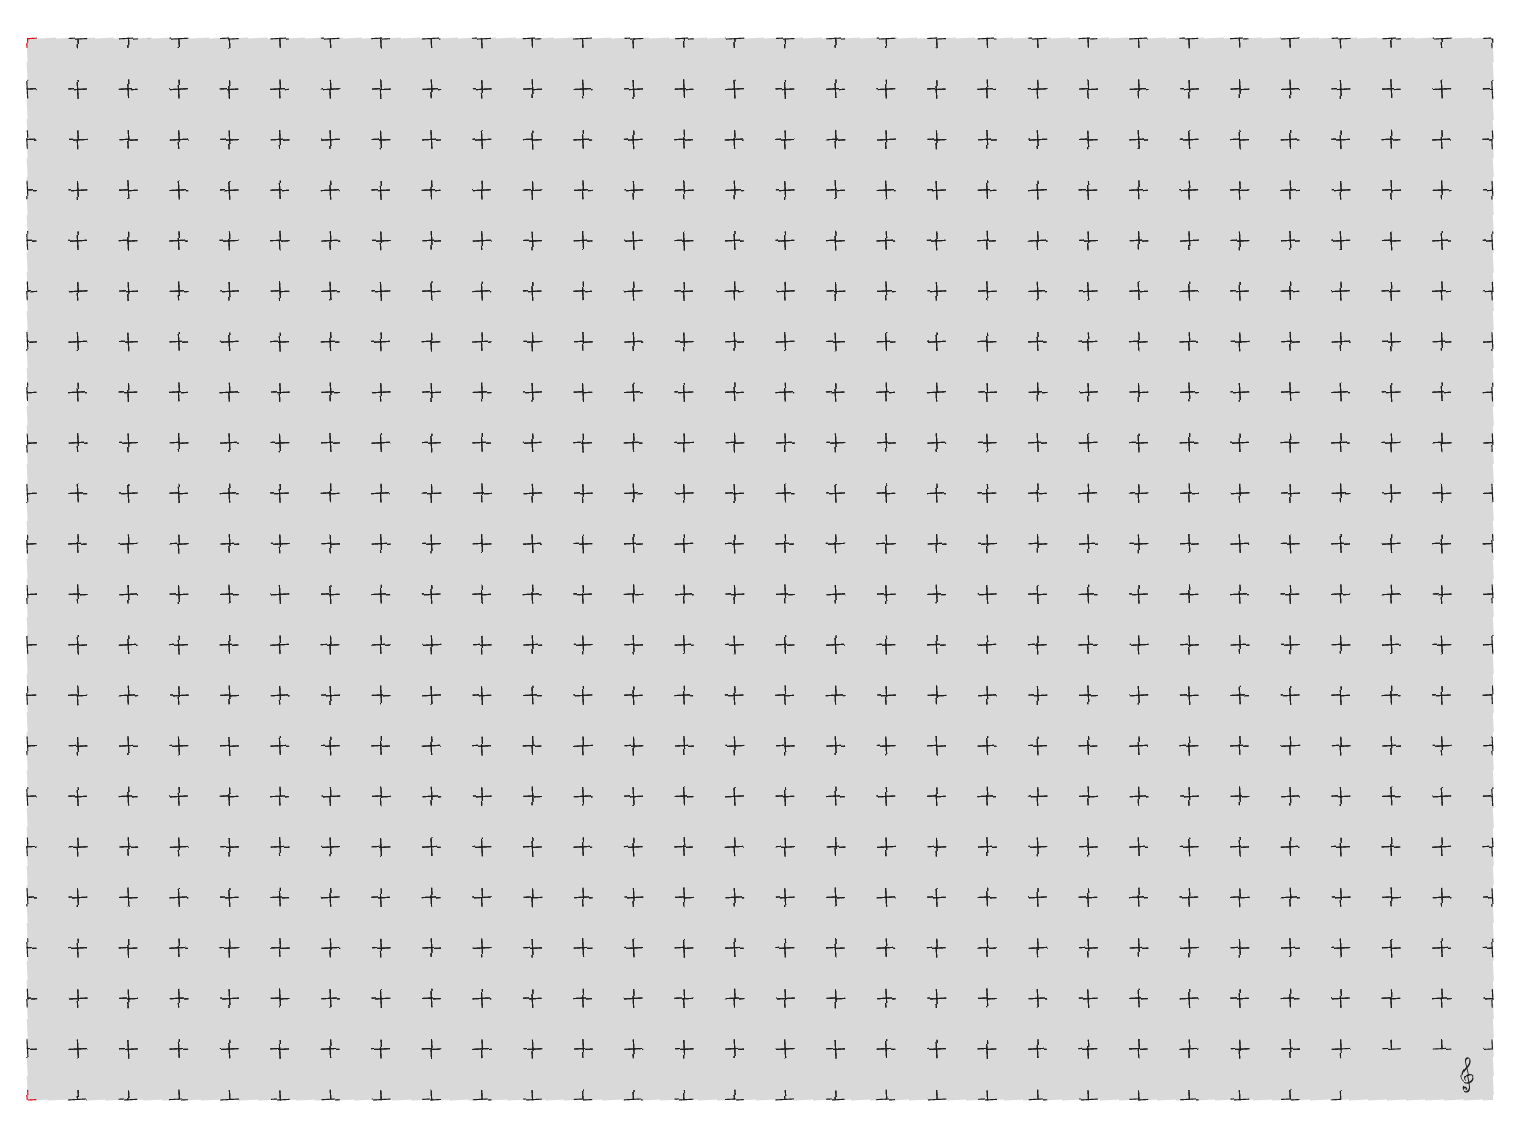
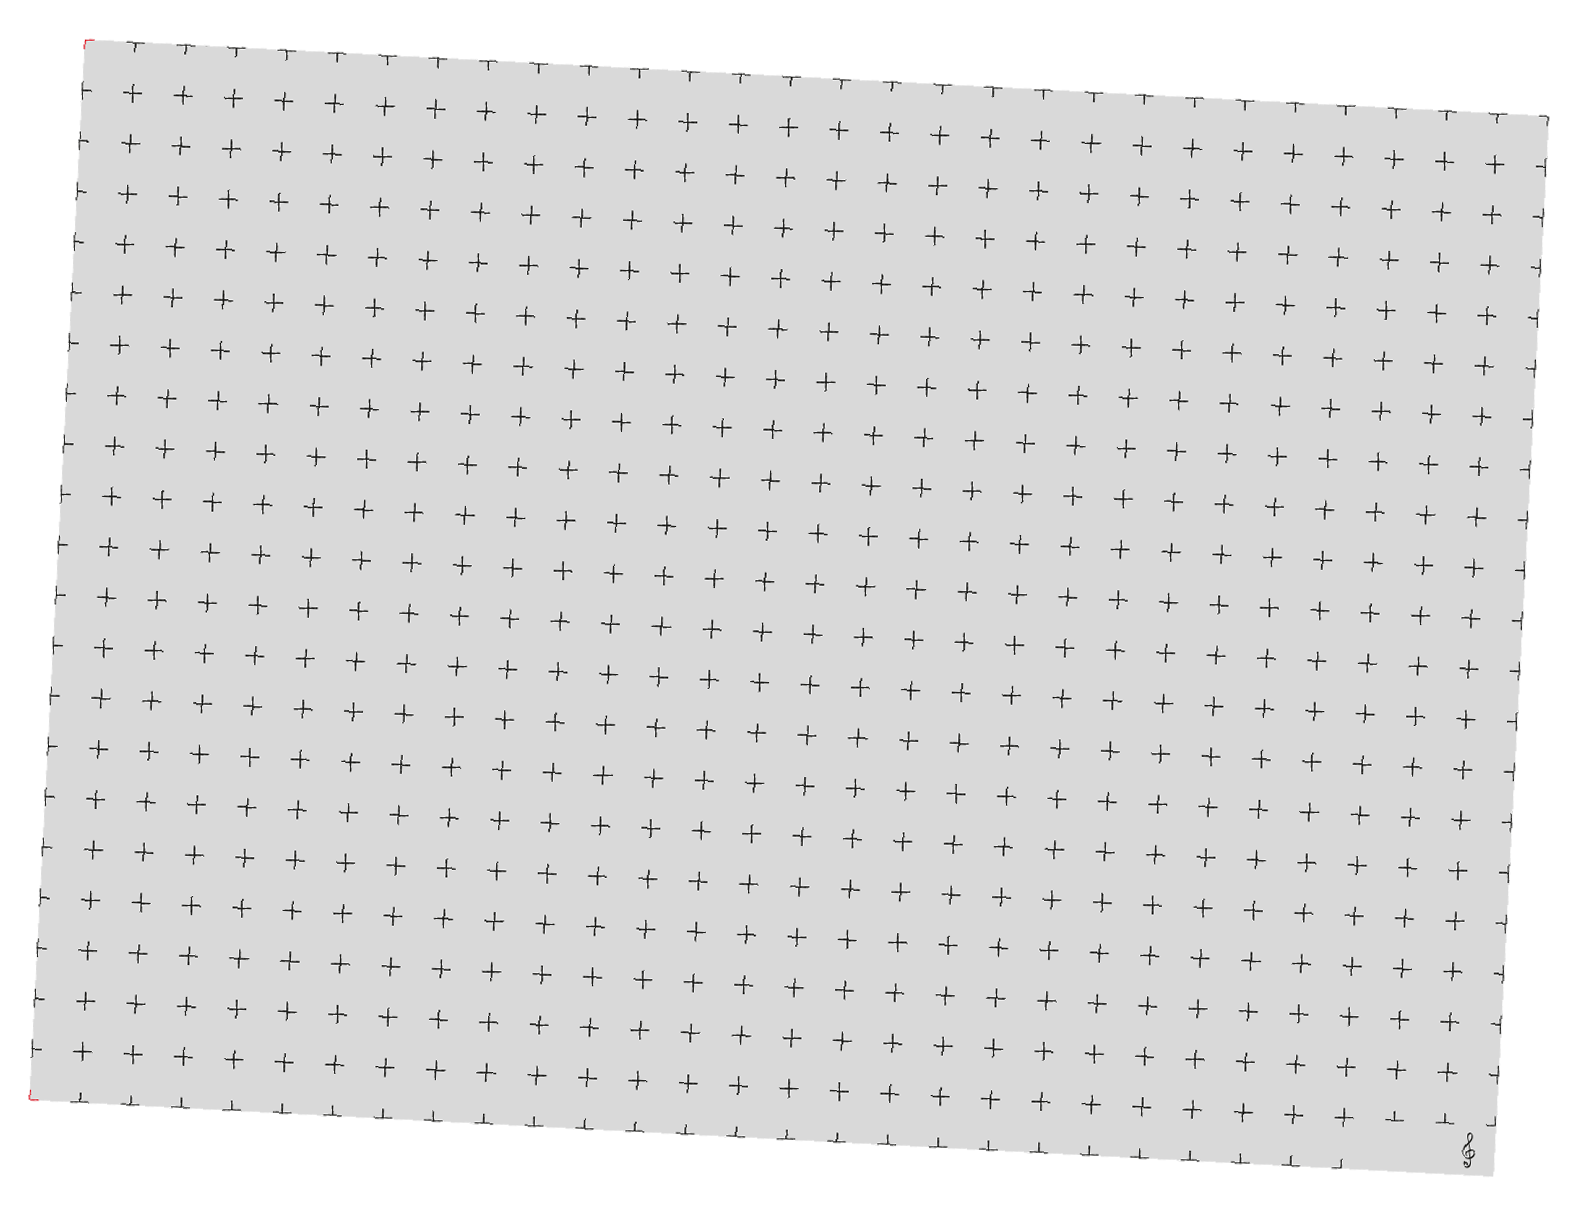
Ajout de la fonction de crop par couleur

diff --git a/cropHandles.py b/cropHandles.py
@@ -1,15 +1,22 @@
 import PIL
 import sys
 import os
-
-
+import colorHandles
 
 def crop_transparency(img):
+    """
+    Description
+    -----------
+    Crops the image's transparent borders.
+
+    Parameters
+    ----------
+    img : Image
+        The image you want to crop the transparency from.
+
+    """
+
     x, y = img.size
-
-    img.show()
-    print(img.getpixel((25,25)))
-
     left = 0
     top = 0
     right = 0
@@ -22,8 +29,8 @@ def crop_transparency(img):
                 left = i
                 break
         else:
-            continue
-        break
+            continue        # only executed if the inner loop did NOT break
+        break               # only executed if the inner loop DID break
 
     #TOP
     for i in range(0, y):
@@ -32,8 +39,8 @@ def crop_transparency(img):
                 top = i
                 break
         else:
-            continue  # only executed if the inner loop did NOT break
-        break  # only executed if the inner loop DID break
+            continue  
+        break  
 
     #RIGHT
     for i in reversed(range(0, x)):
@@ -52,8 +59,8 @@ def crop_transparency(img):
                 bottom = i
                 break
         else:
-            continue  # only executed if the inner loop did NOT break
-        break  # only executed if the inner loop DID break
+            continue  
+        break 
 
 
     print(top, left, bottom, right)
@@ -62,6 +69,77 @@ def crop_transparency(img):
     return cropped_img
 
 
+def crop_by_color(img, color2crop, tolerance = 0):
+    """
+    Description
+    -----------
+    Crops the image's transparent borders.
+
+    Parameters
+    ----------
+    img : Image
+        The image you want to crop, until the colour is found.
+    
+    color2crop : array of int [r,g,b]
+        The color to crop by.
+
+    tolerance : int, optionnal
+        Used to reduce the accuracy of the spotting. Default 0 means it has to be the exact same color.
+    """
+
+    x, y = img.size
+    left = 0
+    top = 0
+    right = 0
+    bottom = 0
+
+
+
+    #LEFT
+    for i in range(0, x):
+        for j in range(0, y):
+            if colorHandles.get_tolerance(color2crop, img.getpixel((i, j)), tolerance):
+                left = i
+                break
+        else:
+            continue        # only executed if the inner loop did NOT break
+        break               # only executed if the inner loop DID break
+
+    #TOP
+    for i in range(0, y):
+        for j in range(0, x):
+            if colorHandles.get_tolerance(color2crop, img.getpixel((j, i)), tolerance):
+                top = i
+                break
+        else:
+            continue  
+        break  
+
+    #RIGHT
+    for i in reversed(range(0, x)):
+        for j in range(0, y):
+            if colorHandles.get_tolerance(color2crop, img.getpixel((i, j)), tolerance):
+                right = i
+                break
+        else:
+            continue
+        break
+
+    #BOTTOM
+    for i in reversed(range(0, y)):
+        for j in range(0, x):
+            if colorHandles.get_tolerance(color2crop, img.getpixel((j, i)), tolerance):
+                bottom = i
+                break
+        else:
+            continue  
+        break 
+
+
+    print(top, left, bottom, right)
+
+    cropped_img = img.crop((left, top, right, bottom))
+    return cropped_img
 
 
 def crop_n_save(img, crop_dim, offset = (0, 0), full_cell = True):
@@ -92,8 +170,6 @@ def crop_n_save(img, crop_dim, offset = (0, 0), full_cell = True):
 
         print(cell_qty_x, cell_qty_y)
         
-
-
 
     return 0
 

diff --git a/transformHandles.py b/transformHandles.py
@@ -3,19 +3,7 @@ from PIL import ImageColor
 import math
 import sys
 import os
-
-
-
-def get_tolerance(source_color, check_color, tolerance = 0):
-    check_new_format = [check_color[0], check_color[1], check_color[2]]
-
-    if check_new_format[0] in range(source_color[0] - tolerance, source_color[0] + tolerance):
-        if check_new_format[1] in range(source_color[1] - tolerance, source_color[1] + tolerance):
-            if check_new_format[2] in range(source_color[2] - tolerance, source_color[2] + tolerance):
-                #print(source_color, check_new_format)
-                return True
-
-    return False
+import colorHandles
 
 
 
@@ -52,7 +40,7 @@ def get_markers_by_color(img: Image, color2mark, approximation_area_size, tolera
     
     for i in range(0, approximation_area_size):
         for j in range(0, approximation_area_size):
-            if get_tolerance(color2mark, img.getpixel((j, i)), tolerance) and j < top_mark[0]:
+            if colorHandles.get_tolerance(color2mark, img.getpixel((j, i)), tolerance) and j < top_mark[0]:
                 top_mark = (j, i)
                 approx_top_start = (j - approximation_area_size, i - approximation_area_size)
                 approx_top_end = (approx_top_start[0] + 2 * approximation_area_size, approx_top_start[1] + 2 * approximation_area_size)
@@ -60,12 +48,13 @@ def get_markers_by_color(img: Image, color2mark, approximation_area_size, tolera
 
     for i in range(y - approximation_area_size, y):
         for j in range(0, approximation_area_size):
-            if  get_tolerance(color2mark, img.getpixel((j, i)), tolerance) and j < bottom_mark[0]:
+            if  colorHandles.get_tolerance(color2mark, img.getpixel((j, i)), tolerance) and j < bottom_mark[0]:
                 bottom_mark = (j, i)
                 approx_bottom_start = (j - approximation_area_size, i - approximation_area_size)
                 approx_bottom_end = (approx_bottom_start[0] + 2 * approximation_area_size, approx_bottom_start[1] + 2 * approximation_area_size)
 
     print(top_mark, bottom_mark)
+    print(img.getpixel(top_mark), img.getpixel(bottom_mark))
     return top_mark, bottom_mark
 
 

diff --git a/main.py b/main.py
@@ -36,18 +36,31 @@ def main():
     new_img.show()
     new_img.save("grid_samples/res1.png")"""
 
-    img6 = Image.open("grid_samples/im6.png") # check for alpha
+    img6 = Image.open("grid_samples/res1.png") # check for alpha
 
     new_img6 = cropHandles.crop_transparency(img6)
     new_img6.save("grid_samples/res2.png")
-    new_img6.show()
+    #new_img6.show()
 
-    #cropHandles.crop_n_save(new_img, (50, 50))
+    """top_mark5, bottom_mark5 = transformHandles.get_markers_by_color(img5, col, 250, tolerance=40)
+    img5 = transformHandles.adjust_transform(img5, top_mark5, bottom_mark5)
+    new_img5 = cropHandles.crop_transparency(img5)
+    #new_img5.show()
+    cropHandles.crop_n_save(new_img5, (50, 50))"""
 
 
+    img7 = Image.open("grid_samples/im7.png")
+    img7_w = Image.open("grid_samples/im7_w.png")
+    top_mark7_w, bottom_mark7_w = transformHandles.get_markers_by_color(img7_w, col, 250, tolerance=40)
+    img7_w = transformHandles.adjust_transform(img7_w, top_mark7_w, bottom_mark7_w)
+    img7_w.putpixel(top_mark7_w, (255,0,255))
+    img7_w.putpixel(bottom_mark7_w, (255,0,255))    
 
-    #angle = math.cos(45)
-    #print(angle)
+    img7_w.save("grid_samples/res3.png")
+    img7_w.show()
+    new_img7_w = cropHandles.crop_by_color(img7_w, col, tolerance=40)
+    new_img7_w.show()
+    new_img7_w.save("grid_samples/res4.png")
 
 
 

diff --git a/colorHandles.py b/colorHandles.py
@@ -1,0 +1,31 @@
+import PIL
+import os
+import sys
+
+
+def get_tolerance(source_color, check_color, tolerance = 0):
+    """
+    Description
+    -----------
+    Detects markers on the grid, and returns the leftest point for each of them.
+
+    Parameters
+    ----------
+    source_color : array of int [r, g, b]
+        The color to compare with.
+
+    check_color : array of int [r, g, b]
+        The color compared with source.
+
+    tolerance : int, optionnal
+        Used to reduce the accuracy of the spotting. Default 0 means it has to be the exact same color.
+    """
+    check_new_format = [check_color[0], check_color[1], check_color[2]]
+
+    if check_new_format[0] in range(source_color[0] - tolerance, source_color[0] + tolerance):
+        if check_new_format[1] in range(source_color[1] - tolerance, source_color[1] + tolerance):
+            if check_new_format[2] in range(source_color[2] - tolerance, source_color[2] + tolerance):
+                #print(source_color, check_new_format)
+                return True
+
+    return False
